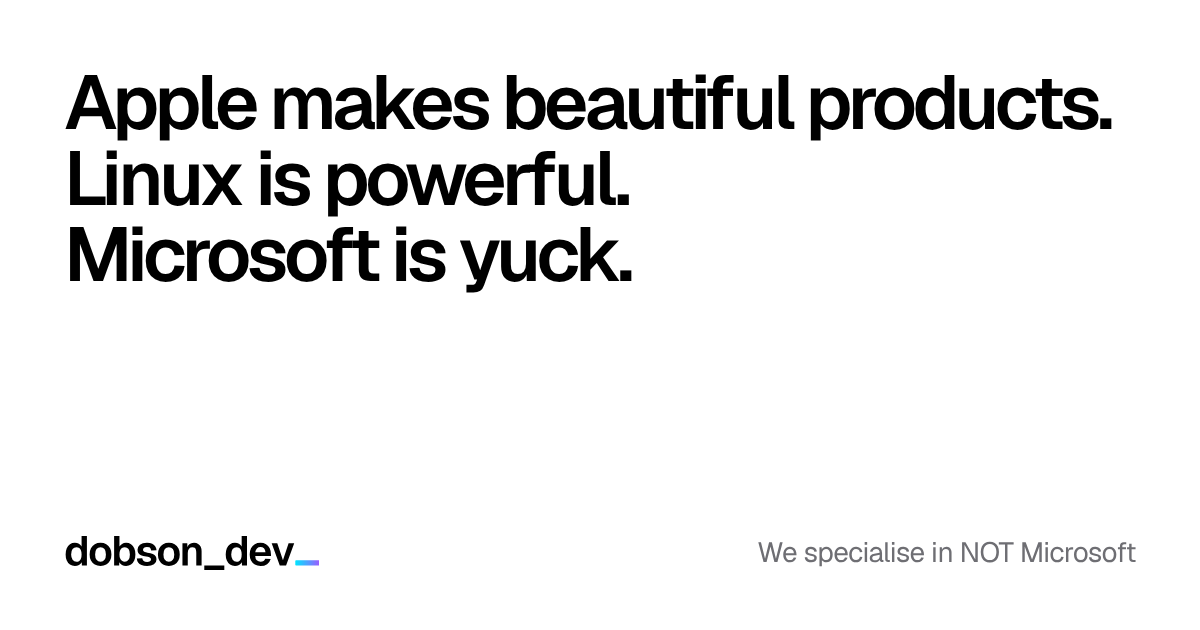
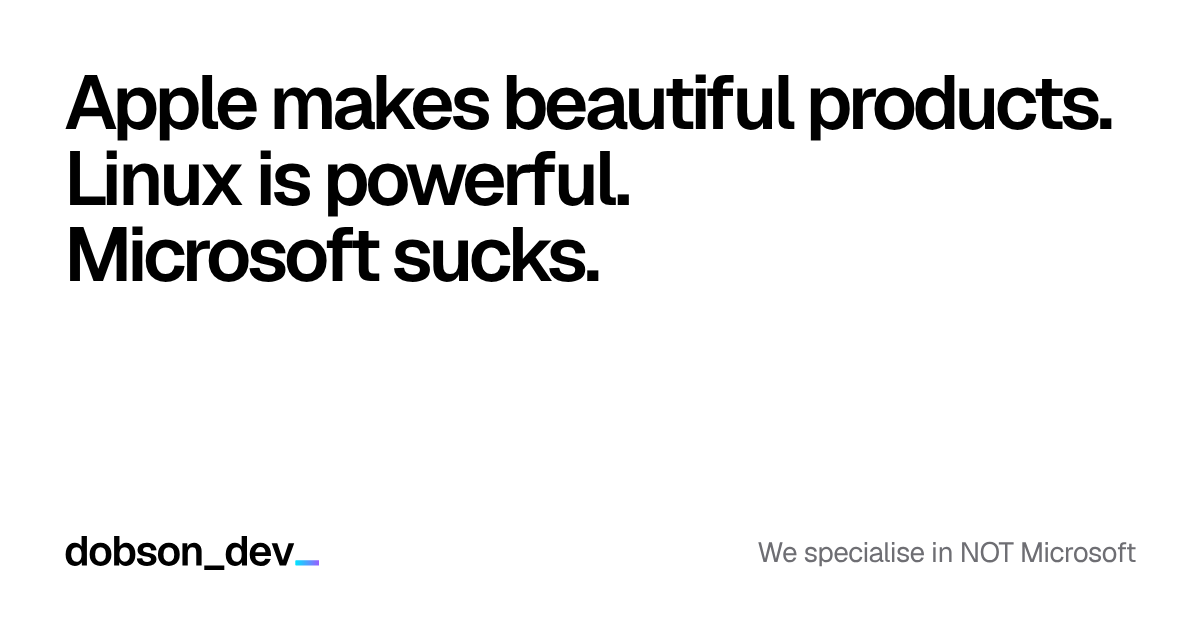
Hero line: Microsoft sucks
Claude-Session: https://claude.ai/code/session_01HtXGLLn32FbwBLqSDUDidp

Changed region(s): [[0.3083, 0.3619, 0.5242, 0.4825]]

diff --git a/index.html b/index.html
@@ -14,7 +14,7 @@ description: "Apple makes beautiful products. Linux is powerful. Dobson Developm
     <h1 class="hero-statement">
         <span>Apple makes beautiful products.</span>
         <span>Linux is powerful.</span>
-        <span>Microsoft is yuck.</span>
+        <span>Microsoft sucks.</span>
     </h1>
     <div class="hero-sub">
         <div>
